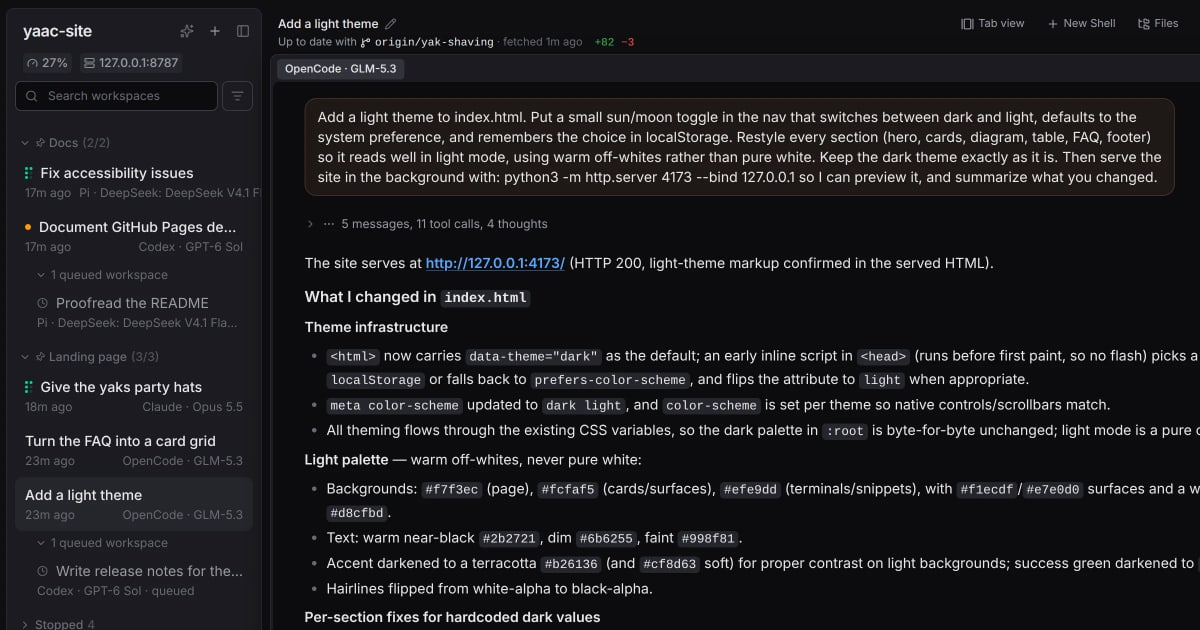
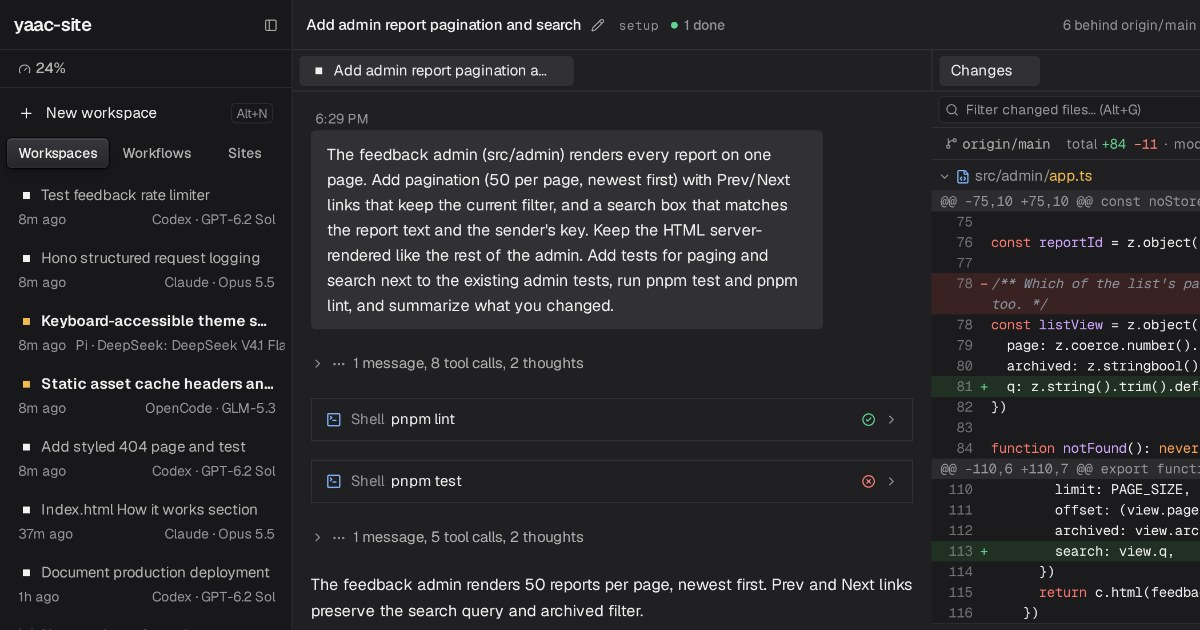
Retake the tour as Chat, Terminal, Workflows and Sites, light and dark
Each screenshot comes in a light and a dark take, and the tour and its
lightbox show the one matching the page's theme. The og image is
retaken from the new chat shot.

diff --git a/public/index.html b/public/index.html
@@ -302,7 +302,7 @@
     }
     .panel { grid-area: 1 / 1; transition: opacity .35s ease, visibility .35s; }
     .panel[hidden] { display: block; opacity: 0; visibility: hidden; pointer-events: none; }
-    .panel > img { width: 100%; height: auto; display: block; }
+    .panel img { width: 100%; height: auto; display: block; }
     .zoom {
       position: absolute; top: .75rem; right: .75rem; z-index: 2;
       width: 36px; height: 36px; display: grid; place-items: center; cursor: pointer;
@@ -747,36 +747,48 @@
 
       <div class="showcase" id="tour">
         <div class="tabs" role="tablist" aria-label="Product tour">
-          <button role="tab" aria-selected="true" aria-controls="panel-chat" id="tab-chat" data-caption="Pick a coding agent per workspace with a chat or terminal UI.">
+          <button role="tab" aria-selected="true" aria-controls="panel-chat" id="tab-chat" data-caption="Run parallel agents in automatically sandboxed, git-backed workspaces">
             <svg viewBox="0 0 24 24" fill="none" stroke="currentColor" stroke-width="1.75" stroke-linecap="round" stroke-linejoin="round" aria-hidden="true"><path d="M7.9 20A9 9 0 1 0 4 16.1L2 22Z"/></svg>Chat
           </button>
-          <button role="tab" aria-selected="false" aria-controls="panel-terminal" id="tab-terminal" tabindex="-1" data-caption="Pick a coding agent per workspace with a chat or terminal UI.">
+          <button role="tab" aria-selected="false" aria-controls="panel-terminal" id="tab-terminal" tabindex="-1" data-caption="Run any agent with its terminal UI if you prefer">
             <svg viewBox="0 0 24 24" fill="none" stroke="currentColor" stroke-width="1.75" stroke-linecap="round" stroke-linejoin="round" aria-hidden="true"><path d="m4 17 6-6-6-6"/><path d="M12 19h8"/></svg>Terminal
           </button>
-          <button role="tab" aria-selected="false" aria-controls="panel-review" id="tab-review" tabindex="-1" data-caption="Review each workspace's changes against its base git branch.">
-            <svg viewBox="0 0 24 24" fill="none" stroke="currentColor" stroke-width="1.75" stroke-linecap="round" stroke-linejoin="round" aria-hidden="true"><path d="M12 3v14"/><path d="M5 10h14"/><path d="M5 21h14"/></svg>Review
+          <button role="tab" aria-selected="false" aria-controls="panel-workflow" id="tab-workflow" tabindex="-1" data-caption="Define custom workflows for CI/CD, or let your agents do it">
+            <svg viewBox="0 0 24 24" fill="none" stroke="currentColor" stroke-width="1.75" stroke-linecap="round" stroke-linejoin="round" aria-hidden="true"><rect width="8" height="8" x="3" y="3" rx="2"/><path d="M7 11v4a2 2 0 0 0 2 2h4"/><rect width="8" height="8" x="13" y="13" rx="2"/></svg>Workflows
           </button>
-          <button role="tab" aria-selected="false" aria-controls="panel-preview" id="tab-preview" tabindex="-1" data-caption="Preview each workspace's dev server, isolated from your other workspaces.">
-            <svg viewBox="0 0 24 24" fill="none" stroke="currentColor" stroke-width="1.75" stroke-linecap="round" stroke-linejoin="round" aria-hidden="true"><circle cx="12" cy="12" r="10"/><path d="M12 2a14.5 14.5 0 0 0 0 20 14.5 14.5 0 0 0 0-20"/><path d="M2 12h20"/></svg>Preview
+          <button role="tab" aria-selected="false" aria-controls="panel-site" id="tab-site" tabindex="-1" data-caption="Deploy your apps publicly from git repos, with custom Docker images">
+            <svg viewBox="0 0 24 24" fill="none" stroke="currentColor" stroke-width="1.75" stroke-linecap="round" stroke-linejoin="round" aria-hidden="true"><circle cx="12" cy="12" r="10"/><path d="M12 2a14.5 14.5 0 0 0 0 20 14.5 14.5 0 0 0 0-20"/><path d="M2 12h20"/></svg>Sites
           </button>
         </div>
-        <p class="caption" aria-live="polite">Pick a coding agent per workspace with a chat or terminal UI.</p>
+        <p class="caption" aria-live="polite">Run parallel agents in automatically sandboxed, git-backed workspaces</p>
         <div class="stage">
           <div class="frame">
             <button class="zoom" type="button" aria-label="View screenshot full size">
               <svg viewBox="0 0 24 24" fill="none" stroke="currentColor" stroke-width="1.75" stroke-linecap="round" stroke-linejoin="round" aria-hidden="true"><path d="M15 3h6v6"/><path d="M9 21H3v-6"/><path d="M21 3l-7 7"/><path d="M3 21l7-7"/></svg>
             </button>
             <div class="panel" role="tabpanel" id="panel-chat" aria-labelledby="tab-chat">
-              <img srcset="assets/show-chat-1110.webp 1110w, assets/show-chat-2220.webp 2220w" src="assets/show-chat-1110.webp" sizes="(max-width: 400px) calc(100vw - 2rem), (max-width: 1160px) calc(100vw - 3rem), 1110px" data-full="assets/show-chat.webp" width="2748" height="1800" alt="Yaac with workspaces in two groups, two of them running and two queued, and an OpenCode chat summarizing the light theme it added">
+              <picture>
+                <source media="(prefers-color-scheme: light)" srcset="assets/show-chat-light-1110.webp 1110w, assets/show-chat-light-2220.webp 2220w" sizes="(max-width: 400px) calc(100vw - 2rem), (max-width: 1160px) calc(100vw - 3rem), 1110px">
+                <img srcset="assets/show-chat-dark-1110.webp 1110w, assets/show-chat-dark-2220.webp 2220w" src="assets/show-chat-dark-1110.webp" sizes="(max-width: 400px) calc(100vw - 2rem), (max-width: 1160px) calc(100vw - 3rem), 1110px" data-full-light="assets/show-chat-light.webp" data-full-dark="assets/show-chat-dark.webp" width="2748" height="1800" alt="Yaac with a dozen agent workspaces in its sidebar, and a Codex chat beside the Changes pane, showing its pagination diff to the feedback admin">
+              </picture>
             </div>
             <div class="panel" role="tabpanel" id="panel-terminal" aria-labelledby="tab-terminal" hidden>
-              <img data-srcset="assets/show-terminal-1110.webp 1110w, assets/show-terminal-2220.webp 2220w" data-src="assets/show-terminal-1110.webp" sizes="(max-width: 400px) calc(100vw - 2rem), (max-width: 1160px) calc(100vw - 3rem), 1110px" data-full="assets/show-terminal.webp" width="2748" height="1800" alt="An OpenCode workspace in terminal mode, showing its FAQ redesign and diff">
+              <picture>
+                <source media="(prefers-color-scheme: light)" data-srcset="assets/show-terminal-light-1110.webp 1110w, assets/show-terminal-light-2220.webp 2220w" sizes="(max-width: 400px) calc(100vw - 2rem), (max-width: 1160px) calc(100vw - 3rem), 1110px">
+                <img data-srcset="assets/show-terminal-dark-1110.webp 1110w, assets/show-terminal-dark-2220.webp 2220w" data-src="assets/show-terminal-dark-1110.webp" sizes="(max-width: 400px) calc(100vw - 2rem), (max-width: 1160px) calc(100vw - 3rem), 1110px" data-full-light="assets/show-terminal-light.webp" data-full-dark="assets/show-terminal-dark.webp" width="2748" height="1800" alt="Claude Code's terminal UI summarizing a new How it works section, beside a Preview pane showing the landing page from the workspace's dev server">
+              </picture>
             </div>
-            <div class="panel" role="tabpanel" id="panel-review" aria-labelledby="tab-review" hidden>
-              <img data-srcset="assets/show-review-1110.webp 1110w, assets/show-review-2220.webp 2220w" data-src="assets/show-review-1110.webp" sizes="(max-width: 400px) calc(100vw - 2rem), (max-width: 1160px) calc(100vw - 3rem), 1110px" data-full="assets/show-review.webp" width="2748" height="1800" alt="The chat beside the Changes pane, showing the light theme's diff to index.html">
+            <div class="panel" role="tabpanel" id="panel-workflow" aria-labelledby="tab-workflow" hidden>
+              <picture>
+                <source media="(prefers-color-scheme: light)" data-srcset="assets/show-workflow-light-1110.webp 1110w, assets/show-workflow-light-2220.webp 2220w" sizes="(max-width: 400px) calc(100vw - 2rem), (max-width: 1160px) calc(100vw - 3rem), 1110px">
+                <img data-srcset="assets/show-workflow-dark-1110.webp 1110w, assets/show-workflow-dark-2220.webp 2220w" data-src="assets/show-workflow-dark-1110.webp" sizes="(max-width: 400px) calc(100vw - 2rem), (max-width: 1160px) calc(100vw - 3rem), 1110px" data-full-light="assets/show-workflow-light.webp" data-full-dark="assets/show-workflow-dark.webp" width="2748" height="1800" alt="The ci workflow's steps and run secrets across the pane, with its runs under it in the sidebar, six succeeded and two failed">
+              </picture>
             </div>
-            <div class="panel" role="tabpanel" id="panel-preview" aria-labelledby="tab-preview" hidden>
-              <img data-srcset="assets/show-preview-1110.webp 1110w, assets/show-preview-2220.webp 2220w" data-src="assets/show-preview-1110.webp" sizes="(max-width: 400px) calc(100vw - 2rem), (max-width: 1160px) calc(100vw - 3rem), 1110px" data-full="assets/show-preview.webp" width="2748" height="1800" alt="The chat beside a Preview pane showing the landing page in its new light theme">
+            <div class="panel" role="tabpanel" id="panel-site" aria-labelledby="tab-site" hidden>
+              <picture>
+                <source media="(prefers-color-scheme: light)" data-srcset="assets/show-site-light-1110.webp 1110w, assets/show-site-light-2220.webp 2220w" sizes="(max-width: 400px) calc(100vw - 2rem), (max-width: 1160px) calc(100vw - 3rem), 1110px">
+                <img data-srcset="assets/show-site-dark-1110.webp 1110w, assets/show-site-dark-2220.webp 2220w" data-src="assets/show-site-dark-1110.webp" sizes="(max-width: 400px) calc(100vw - 2rem), (max-width: 1160px) calc(100vw - 3rem), 1110px" data-full-light="assets/show-site-light.webp" data-full-dark="assets/show-site-dark.webp" width="2748" height="1800" alt="The yaac-site site, unpublished and live at its newest commit, with its releases, and a staging site mid-deploy">
+              </picture>
             </div>
           </div>
         <dialog class="lightbox" aria-label="Screenshot viewer">
@@ -1137,11 +1149,30 @@
     function load(tab) {
       const img = panelImg(tab)
       if (!img.dataset.src) return
-      img.srcset = img.dataset.srcset
+      for (const el of img.parentElement.querySelectorAll('[data-srcset]')) {
+        el.srcset = el.dataset.srcset
+        delete el.dataset.srcset
+      }
       img.src = img.dataset.src
-      delete img.dataset.srcset
       delete img.dataset.src
     }
+
+    // Each screenshot comes in a light and a dark take. Its <picture> picks
+    // by the system scheme on its own; a theme chosen on the page overrides
+    // that by switching the light source on or off.
+    const shotTheme = () => {
+      const pref = document.documentElement.dataset.theme
+      if (pref === 'light' || pref === 'dark') return pref
+      return matchMedia('(prefers-color-scheme: light)').matches ? 'light' : 'dark'
+    }
+    function syncShots() {
+      const pref = document.documentElement.dataset.theme
+      document.querySelectorAll('.panel source').forEach((s) => {
+        s.media = pref === 'light' ? 'all' : pref === 'dark' ? 'not all' : '(prefers-color-scheme: light)'
+      })
+    }
+    syncShots()
+    addEventListener('themechange', syncShots)
     function select(tab) {
       load(tab)
       tabs.forEach((t) => {
@@ -1220,7 +1251,7 @@
       lbText.textContent = tab.dataset.caption
       lbLive.textContent = `${tab.textContent.trim()} screenshot. ${tab.dataset.caption}`
       refreshZoomable()
-      const full = await decoded(img.dataset.full).catch(() => null)
+      const full = await decoded(img.dataset[shotTheme() === 'light' ? 'fullLight' : 'fullDark']).catch(() => null)
       if (t !== token || !full) return
       lbImg.src = full
       fullReady = true
@@ -1264,6 +1295,7 @@
     // Esc steps out of the zoom before it closes the viewer.
     box.addEventListener('cancel', (e) => { if (zoomed()) { e.preventDefault(); unzoom() } })
     addEventListener('resize', () => { if (box.open && !zoomed()) refreshZoomable() })
+    addEventListener('themechange', () => { if (box.open) show(current()) })
 
     // Full screen covers the page, with the modal dialog still on top. (A
     // dialog can't itself be made full screen.)
